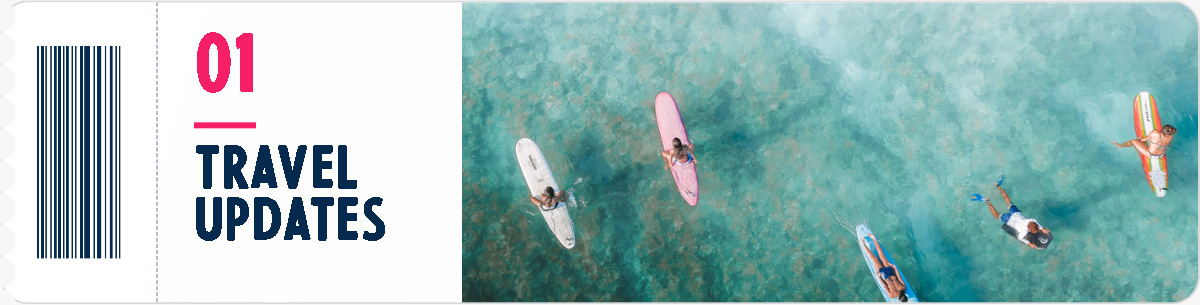
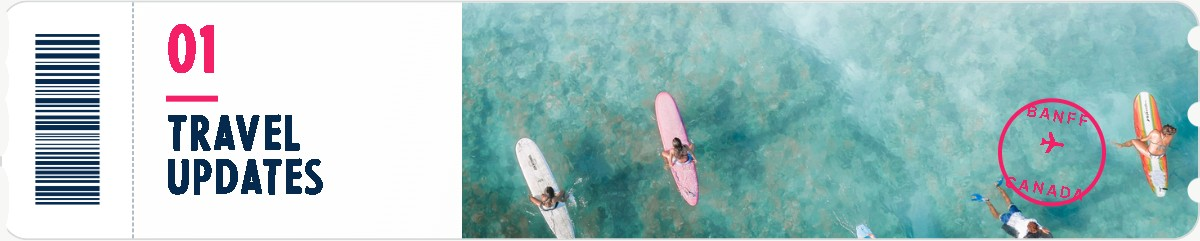
new card

diff --git a/README.md b/README.md
@@ -137,7 +137,7 @@ Sir marked three things as missing against his original mock. All three are back
 
 | Marked | Now |
 |---|---|
-| **Barcode on card 01** | A real barcode &mdash; bars of varying width, not evenly spaced lines &mdash; sitting in its own stub behind a dashed perforation. Generated, not downloaded, so the colour and size are exact. |
+| **Barcode on card 01** | A real barcode &mdash; bars of varying width, not evenly spaced lines &mdash; in its own stub behind a dashed perforation. Generated, not downloaded, so the colour and size are exact. Sir asked for the **lines horizontal, not vertical**, with the stub staying tall and narrow as in the original - so the bars run across and stack top to bottom. |
 | **Pink hatched square on card 02** | Back, beside the plane glyph, in brand pink |
 | **BANFF / SAHARA route stub on card 04** | Present, mirrored to the left because card 04 is a flipped ticket |
 
@@ -213,7 +213,7 @@ exactly that reason — please do not shorten them.
 
 ## Putting it into beehiiv
 
-1. Upload all 15 files from `img/` to **Newsletter → Media library**.
+1. Upload all 16 files from `img/` to **Newsletter → Media library**.
 2. Replace every `src="img/..."` with the URL beehiiv returns.
 3. **Settings → Emails → Configure welcome email** → add a **Custom HTML** block
    → paste everything between `PASTE FROM HERE` and `PASTE UNTIL HERE`.
@@ -225,11 +225,40 @@ beehiiv attaches its own legal footer underneath automatically.
 
 ---
 
+## The ticket cards
+
+Sir's design was measured pixel by pixel rather than eyeballed, because the
+two long edges of a card are **not** the same shape and that difference is
+what makes the card read as a real boarding pass:
+
+| | Sir's design | This build |
+|---|---|---|
+| Card height, as a share of its width | 0.18 | 0.20 |
+| Photo edge | three round punches, 6px deep, 7px radius | round punches, 6px deep, 38px apart |
+| Copy edge | wider excursions at irregular spacing - a torn edge | two tear tracks at 27px and 41px, so the bites never repeat |
+| Corners | rounded | rounded, 14px |
+| Punch runs over the photo too | yes | yes |
+
+Because the cards zigzag, the punched side **follows the photo**: right on cards
+01 and 03, left on the flipped 02 and 04. The torn edge is always the copy side.
+
+The cards were also slimmed from 152px to 120px. At the old height they were
+a quarter taller than the design and read as banners rather than tickets;
+120px is as slim as the headings can go and still be legible on a phone.
+
+Card 02 sets its number and its word on one line, the way Sir's does - that
+is what makes room for all three coordinate lines inside the shorter card.
+
+Card 01 now carries the circular passport roundel from the design, and card
+04's route stub is the wide two-column manifest rather than a narrow strip.
+
+---
+
 ## Checked on
 
 | | Desktop 700px | Phone 390px |
 |---|---|---|
 | Horizontal overflow | none | none |
-| Images loading | 15 / 15 | 15 / 15 |
-| Links working | 13 / 13 | 13 / 13 |
+| Images loading | 16 / 16 | 16 / 16 |
+| Links working | 14 / 14 | 14 / 14 |
 | Six social icons | all visible | all visible |
